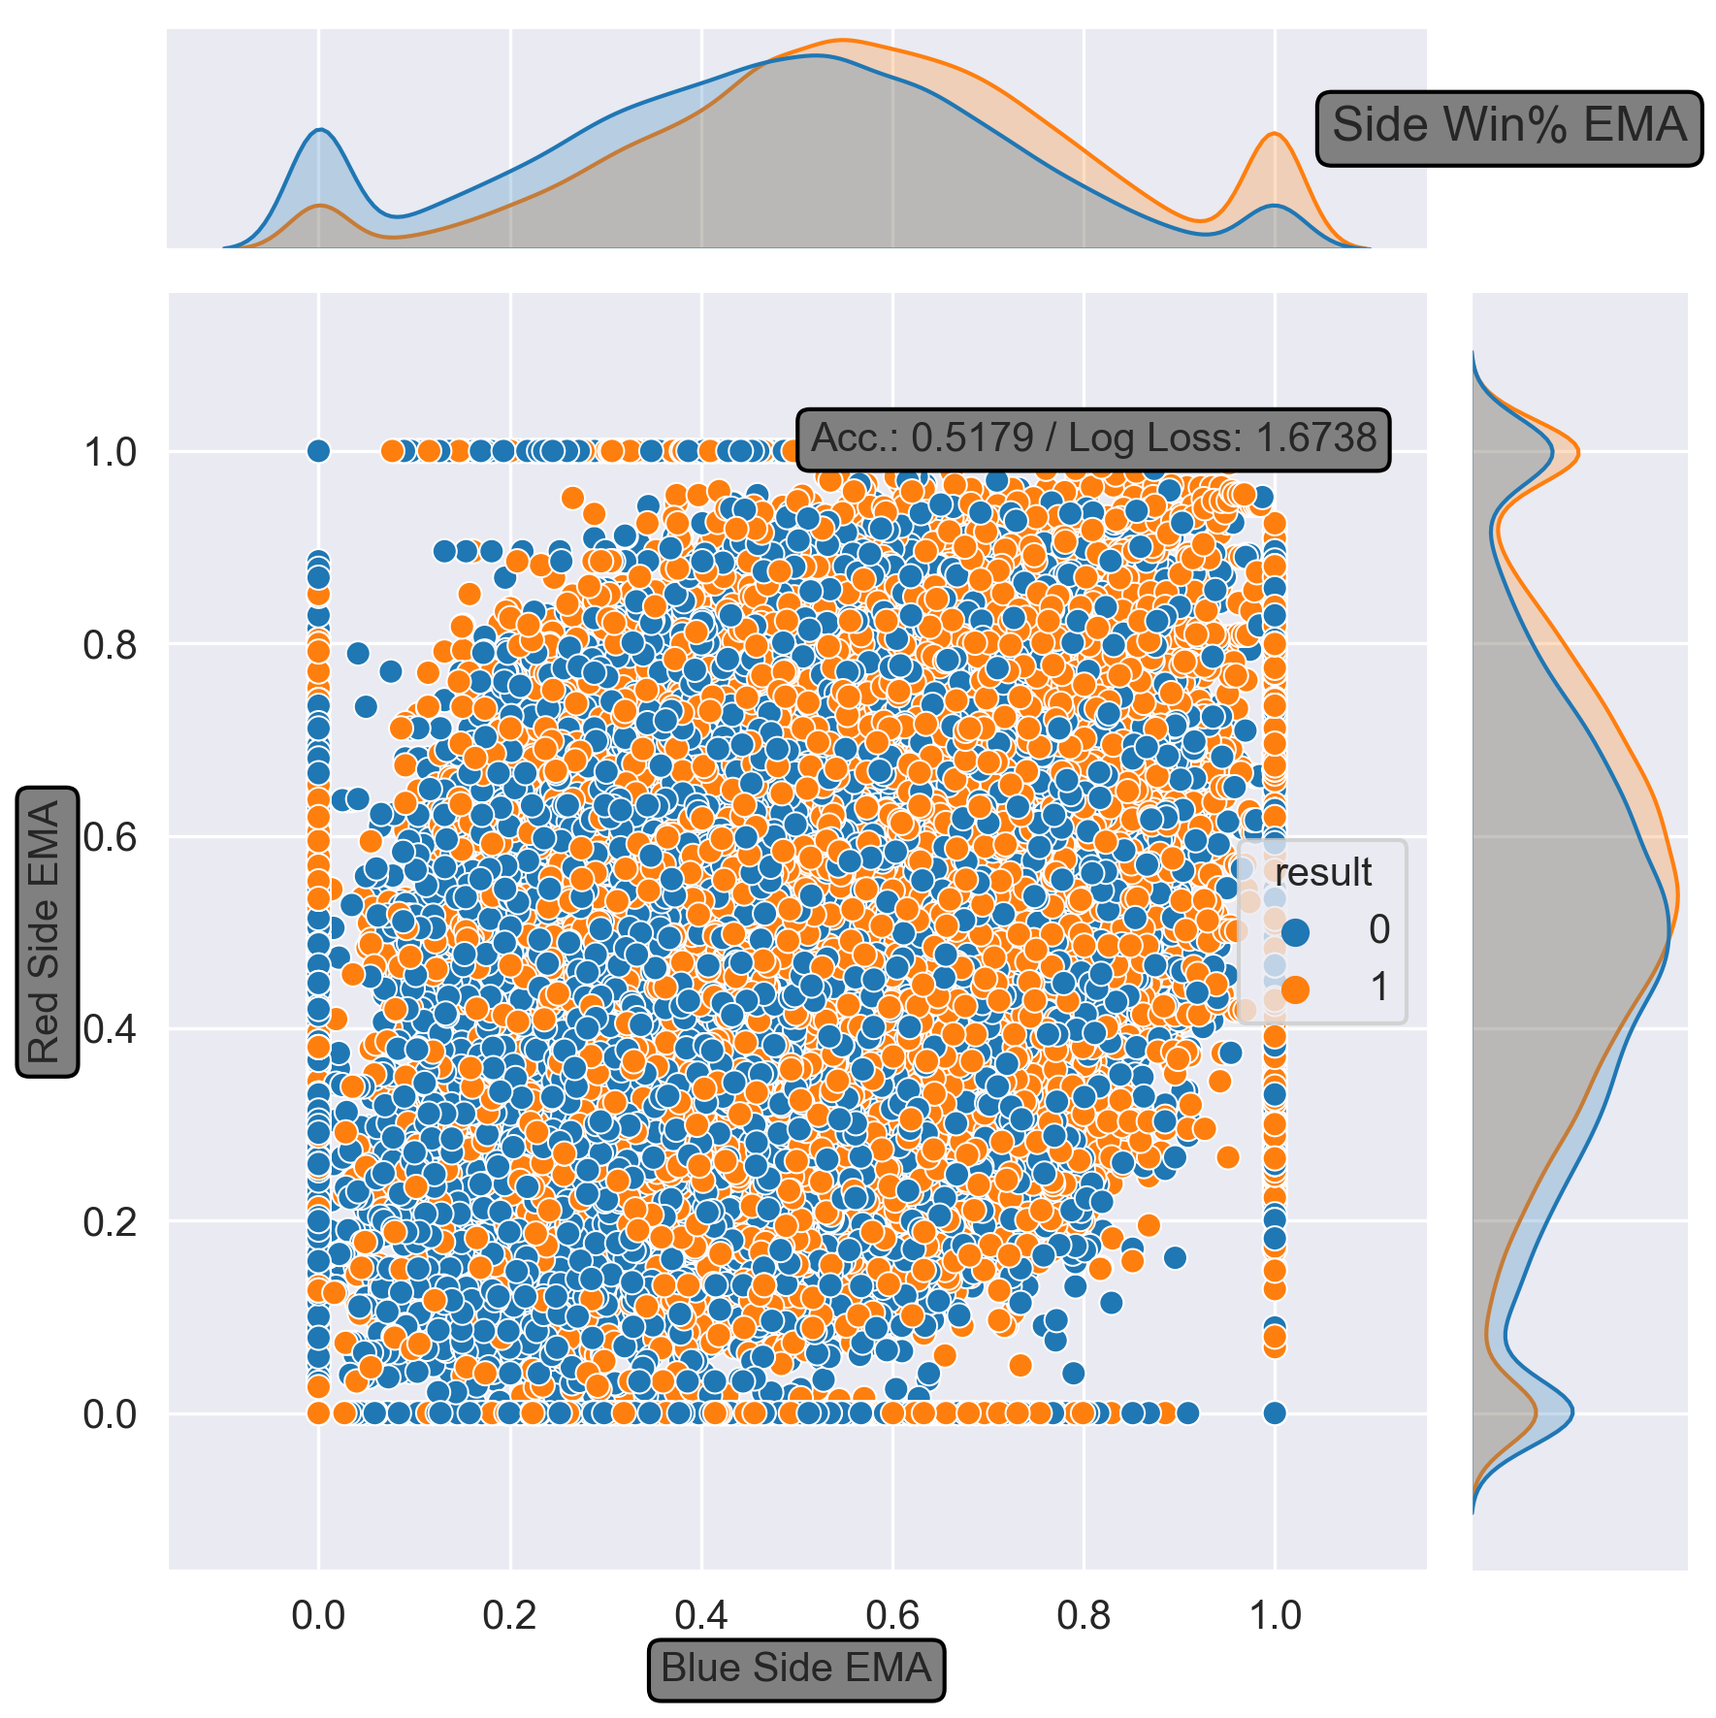
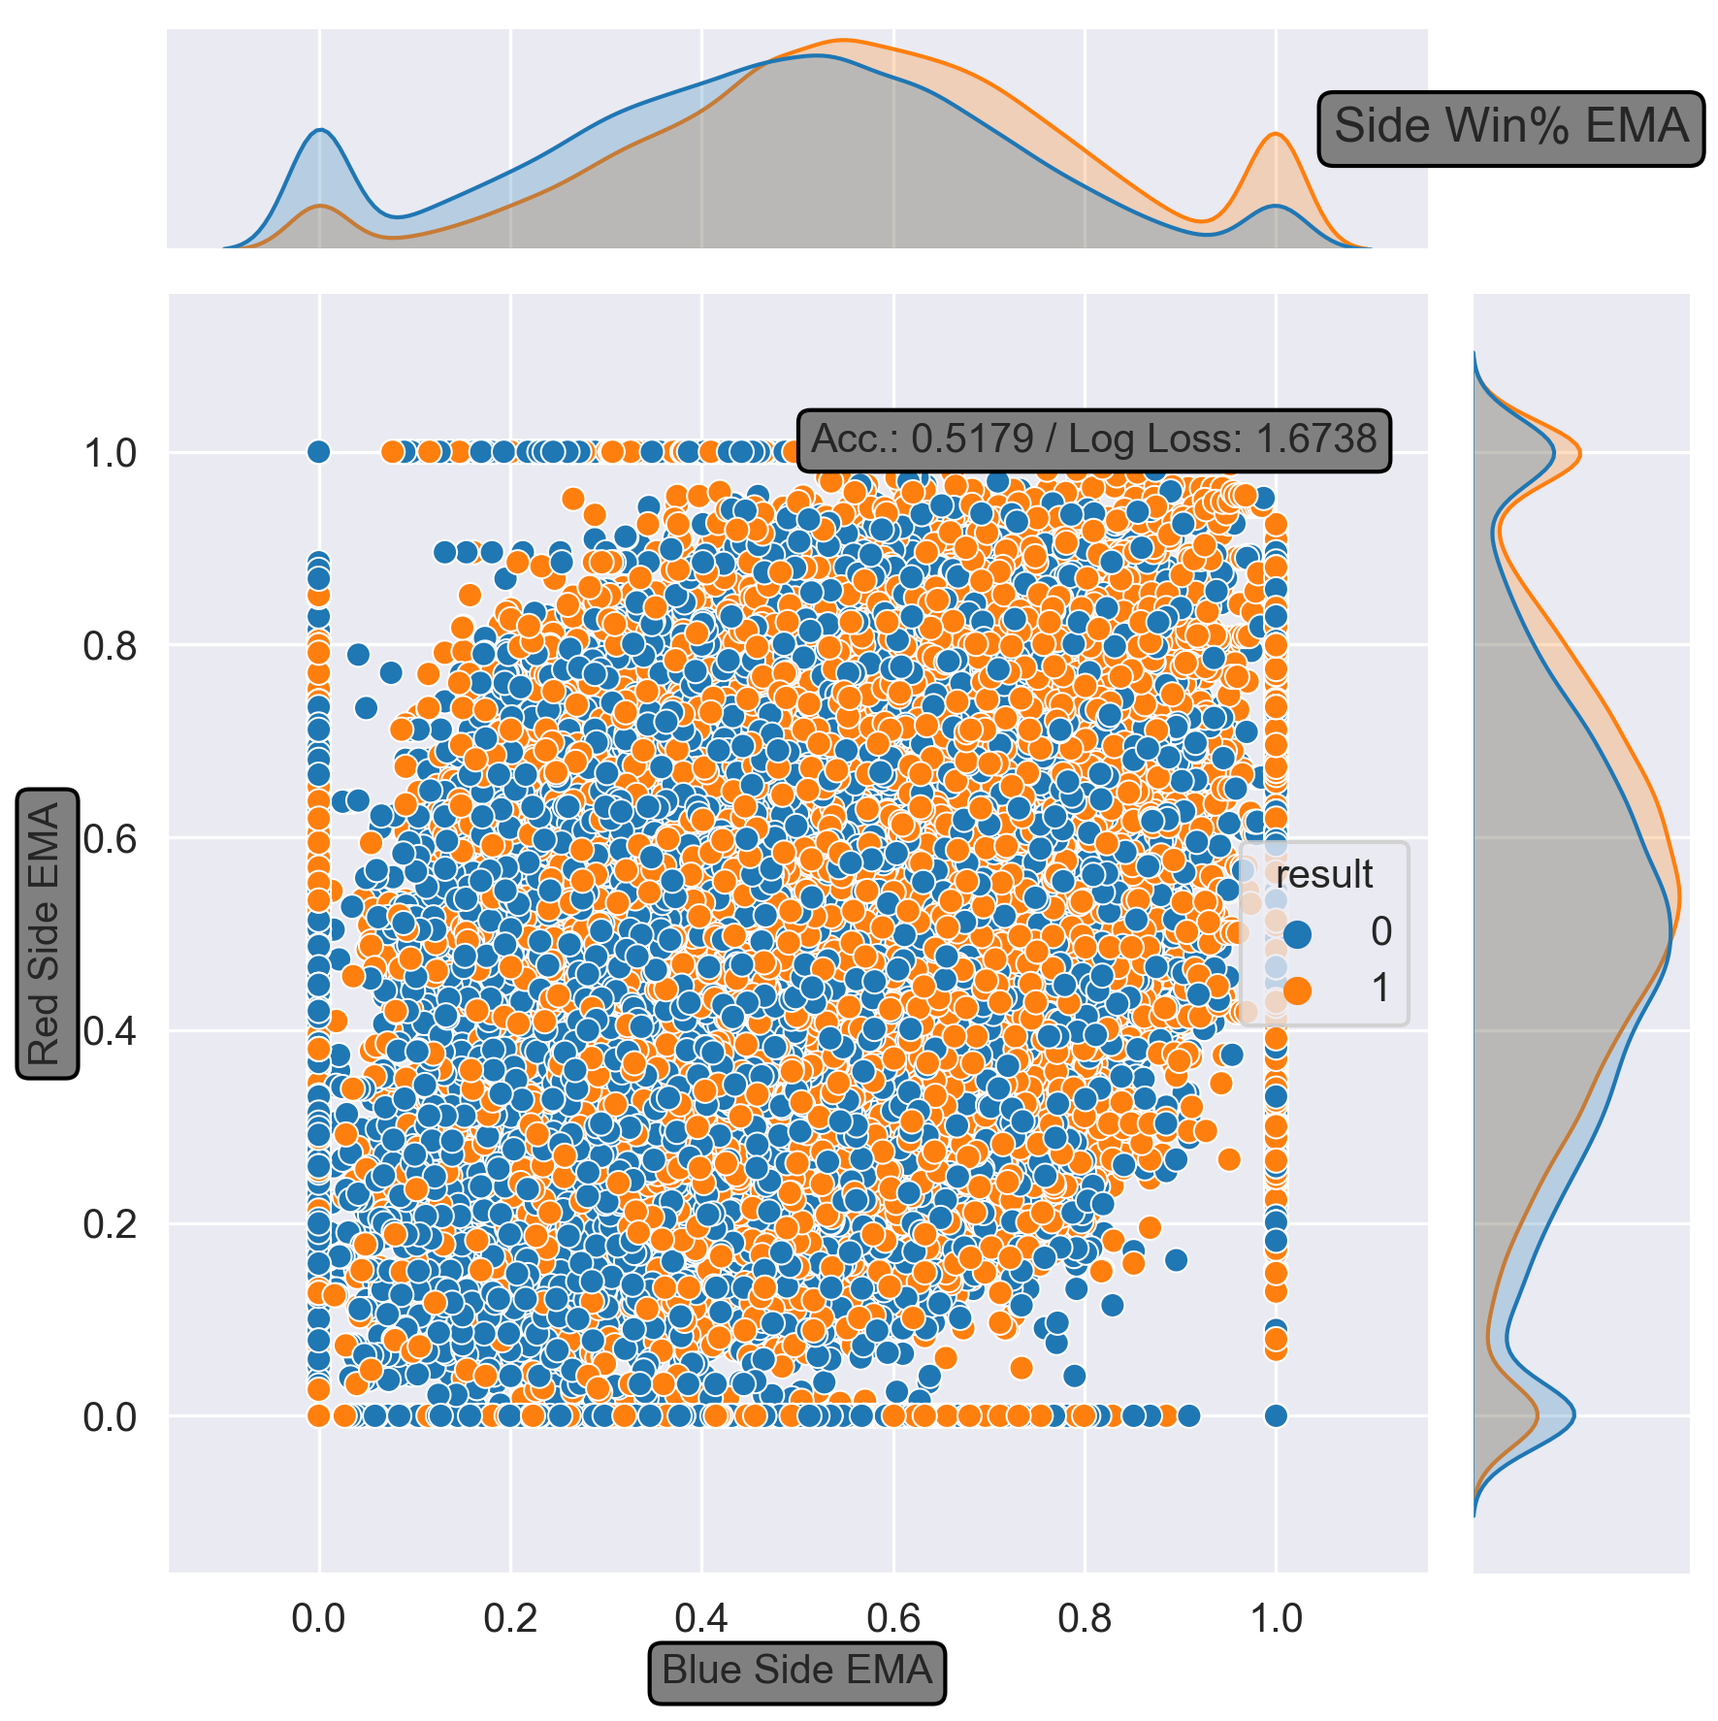
Slight model tweaks
Minor improvements following experimentation to make model outputs more accurate and consistent.

diff --git a/src/match_predictor.py b/src/match_predictor.py
@@ -10,6 +10,7 @@ Tim provides an invaluable service to the League community.
 # Housekeeping
 import itertools
 import math
+import numpy as np
 import pandas as pd
 from scipy.stats import norm
 from src.team import Team
@@ -25,10 +26,10 @@ def predict_match(blue: Team, red: Team) -> pd.DataFrame:
         return blue_win_perc
 
     def trueskill_prediction(blue_team_mu: float, blue_team_sigma: list,
-                             red_team_mu: float, red_team_sigma: list) -> float:
+                             red_team_mu: float, red_team_sigma: list, sigma_value: float) -> float:
         delta_mu = (blue_team_mu - red_team_mu)
         sum_sig = sum(r ** 2 for r in itertools.chain(blue_team_sigma, red_team_sigma))
-        denominator = math.sqrt(10 * (4.1666666667 ** 2) + sum_sig)
+        denominator = math.sqrt(10 * ((sigma_value / 2) ** 2) + sum_sig)
         blue_win_perc = norm.cdf(delta_mu / denominator)
         return blue_win_perc
 
@@ -38,23 +39,16 @@ def predict_match(blue: Team, red: Team) -> pd.DataFrame:
 
     weights = generate_validation_metrics(graph=False)
 
-    def scale_egpm(win_perc: float) -> float:
-        min_tune = 0.125
-        max_tune = 0.875
-        team_min = 0.261964
-        team_max = 0.695982
-        base_std = (win_perc - team_min) / (team_max - team_min)
-        scaled_win_perc = base_std * (max_tune - min_tune) + min_tune
-        return scaled_win_perc
-
     match = pd.DataFrame({"blue": [blue.name],
                           "red": [red.name],
                           "player_elo": [elo_prediction(blue.player_elo, red.player_elo)],
                           "player_trueskill": [trueskill_prediction(blue.player_trueskill_mu,
                                                                     blue.player_trueskill_sigma,
                                                                     red.player_trueskill_mu,
-                                                                    red.player_trueskill_sigma)],
-                          "egpm_dom": [scale_egpm(standard_prediction(blue.egpm_dominance, red.egpm_dominance))],
+                                                                    red.player_trueskill_sigma,
+                                                                    sigma_value=2.75)],
+                          "team_egpm_dom": [standard_prediction(blue.team_egpm_dom, red.team_egpm_dom)],
+                          "player_egpm_dom": [standard_prediction(blue.player_egpm_dom, red.player_egpm_dom)],
                           "side_win": [standard_prediction(blue.side_win_rate, red.side_win_rate)]})
 
     if blue.team_exists and red.team_exists:
@@ -65,18 +59,19 @@ def predict_match(blue: Team, red: Team) -> pd.DataFrame:
         match["blue_win_chance"] = ((match["team_elo"] * (weights["team_accuracy"]/sum_accuracy)) +
                                     (match["player_elo"] * (weights["player_accuracy"]/sum_accuracy)) +
                                     (match["player_trueskill"] * (weights["trueskill_accuracy"] / sum_accuracy)) +
-                                    (match["egpm_dom"] * (weights["egpm_dom_accuracy"]/sum_accuracy)) +
+                                    (match["team_egpm_dom"] * (weights["egpm_dom_accuracy"]/sum_accuracy)) +
                                     (match["side_win"] * (weights["side_ema_accuracy"]/sum_accuracy)))
 
-        match["deviation"] = match[["team_elo", "player_elo", "player_trueskill", "egpm_dom", "side_win"]].std(axis=1)
+        match["deviation"] = match[["team_elo", "player_elo", "player_trueskill", "team_egpm_dom", "side_win"]].std(axis=1)
+        match.drop(['player_egpm_dom'], axis=1, inplace=True)
     else:
         sum_accuracy = (weights["player_accuracy"] + weights["trueskill_accuracy"] +
                         weights["egpm_dom_accuracy"] + weights["side_ema_accuracy"])
         match["blue_win_chance"] = ((match["player_elo"] * (weights["player_accuracy"]/sum_accuracy)) +
                                     (match["player_trueskill"] * (weights["trueskill_accuracy"]/sum_accuracy)) +
-                                    (match["egpm_dom"] * (weights["egpm_dom_accuracy"]/sum_accuracy)) +
+                                    (match["player_egpm_dom"] * (weights["egpm_dom_accuracy"]/sum_accuracy)) +
                                     (match["side_win"] * (weights["side_ema_accuracy"]/sum_accuracy)))
-        match["deviation"] = match[["player_elo", "player_trueskill", "egpm_dom", "side_win"]].std(axis=1)
+        match["deviation"] = match[["player_elo", "player_trueskill", "player_egpm_dom", "side_win"]].std(axis=1)
 
     return match
 
@@ -203,8 +198,9 @@ Overall Likelihood Of {t2name} To Win Series: {t2likelihood:.2f}%
     return output
 
 
-def predict_draft(blue_team: str, blue1: str, blue2: str, blue3: str, blue4: str, blue5: str,
-                  red_team: str, red1: str, red2: str, red3: str, red4: str, red5: str):
+def predict(blue_team: str, blue1: str, blue2: str, blue3: str, blue4: str, blue5: str,
+            red_team: str, red1: str, red2: str, red3: str, red4: str, red5: str,
+            verbose: bool):
 
     output = pd.DataFrame()
 
@@ -213,11 +209,10 @@ def predict_draft(blue_team: str, blue1: str, blue2: str, blue3: str, blue4: str
 
     match = predict_match(blue, red)
     output = pd.concat([output, match], ignore_index=True)
-    print(blue)
-    print(red)
-    print(match)
 
-    #output = output[["blue", "red", "blue_win_chance", "deviation"]]
+    if not verbose:
+        output = output[["blue", "red", "blue_win_chance", "deviation"]]
+
     output = "```ProjektZero Model Predictions: \n \n" \
              f"{output.copy().to_markdown()}"
 
@@ -267,10 +262,10 @@ def mock_draft(blue1: str, blue2: str, blue3: str, blue4: str, blue5: str,
 
 
 if __name__ in ('__main__', '__builtin__', 'builtins'):
-    blue_team = Team("Team BDS", "Blue", "Adam", "Cinkrof", "NUCLEARINT", "xMatty", "Limit")
-    red_team = Team("Rogue", "Red", "Odoamne", "Malrang", "Larssen", "Comp", "Trymbi")
+    blue_team = Team("Evil Geniuses", "Impact", "Inspired", "jojopyun", "Danny", "Vulcan")
+    print(blue_team.team_egpm_dom)
+    red_team = Team("Golden Guardians", "Tony Top", "Iconic", "ry0ma", "Stixxay", "Chime")
+    print(red_team.team_egpm_dom)
 
-    print(predict_draft("Team BDS", "Adam", "Cinkrof", "NUCLEARINT", "xMatty", "LIMIT",
-                        "Rogue", "Odoamne", "Malrang", "Larssen", "Comp", "Trymbi"))
-    print(predict_draft("Rogue", "Odoamne", "Malrang", "Larssen", "Comp", "Trymbi",
-                        "Team BDS", "Adam", "Cinkrof", "NUCLEARINT", "xMatty", "LIMIT"))
+    print(predict("Evil Geniuses", "Impact", "Inspired", "jojopyun", "Danny", "Vulcan",
+                  "Golden Guardians", "Tony Top", "Iconic", "ry0ma", "Stixxay", "Chime", True))

diff --git a/src/lol_modeling.py b/src/lol_modeling.py
@@ -245,6 +245,7 @@ def player_elo(df: pd.DataFrame, start: int = 1200, k: int = 28) -> pd.DataFrame
 
     return df
 
+
 def aggregate_player_elos(player_data: pd.DataFrame, team_data: pd.DataFrame) -> pd.DataFrame:
     """
     Aggregate individual player elos to a mean elo per team per match.
@@ -278,8 +279,8 @@ def aggregate_player_elos(player_data: pd.DataFrame, team_data: pd.DataFrame) ->
     return team_data
 
 
-def trueskill_model(player_data: pd.DataFrame, team_data: pd.DataFrame) -> Tuple[
-    Optional[DataFrame], Optional[DataFrame], Dict[Any, Any]]:
+def trueskill_model(player_data: pd.DataFrame, team_data: pd.DataFrame,
+                    initial_sigma: float = 8.33) -> Tuple[Optional[DataFrame], Optional[DataFrame], Dict[Any, Any]]:
     r"""
     Calculate team ranking using Microsoft's TrueSkill 1 algorithm.
     Reference: https://www.microsoft.com/en-us/research/project/trueskill-ranking-system/
@@ -317,7 +318,7 @@ def trueskill_model(player_data: pd.DataFrame, team_data: pd.DataFrame) -> Tuple
     ts = trueskill.TrueSkill(draw_probability=0.0)
     player_ratings_dict = dict()
     for i in input_data['playerid'].unique():
-        player_ratings_dict[i] = ts.create_rating()
+        player_ratings_dict[i] = ts.create_rating(sigma=initial_sigma)
 
     def setup_match(df: pd.DataFrame) -> np.array:
         # Prepare DataFrame
@@ -367,11 +368,11 @@ def trueskill_model(player_data: pd.DataFrame, team_data: pd.DataFrame) -> Tuple
         return output_array
 
     col_names = ['gameid', 'date', 'league', 'ckpm', 'blue_earned_gpm',
-                'blue_kpm', 'blue_team', 'blue_team_id', 'blue_top_name', 'blue_jng_name',
-                'blue_mid_name', 'blue_bot_name', 'blue_sup_name',
-                'blue_team_result', 'red_team', 'red_team_id', 'red_earned_gpm', 'red_kpm',
-                'red_top_name', 'red_jng_name', 'red_mid_name',
-                'red_bot_name', 'red_sup_name']
+                 'blue_kpm', 'blue_team', 'blue_team_id', 'blue_top_name', 'blue_jng_name',
+                 'blue_mid_name', 'blue_bot_name', 'blue_sup_name',
+                 'blue_team_result', 'red_team', 'red_team_id', 'red_earned_gpm', 'red_kpm',
+                 'red_top_name', 'red_jng_name', 'red_mid_name',
+                 'red_bot_name', 'red_sup_name']
 
     lcs_rating = pd.DataFrame(setup_match(input_data), columns=col_names)
 
@@ -705,31 +706,24 @@ def egpm_model(data: pd.DataFrame, entity: str) -> pd.DataFrame:
                                          opp_elo))
     data['egpm_dominance_ema_before'] = (data.groupby([identity])
                                          ['egpm_dominance_ratio']
-                                         .transform(lambda x: x.ewm(halflife=9, ignore_na=True)
+                                         .transform(lambda x: x.ewm(halflife=5, ignore_na=True)
                                                     .mean().shift().bfill()))
     data['egpm_dominance_ema_after'] = (data.groupby([identity])
                                         ['egpm_dominance_ratio']
-                                        .transform(lambda x: x.ewm(halflife=9, ignore_na=True).mean()))
+                                        .transform(lambda x: x.ewm(halflife=5, ignore_na=True).mean()))
     data['opp_egpm_dominance_ema_before'] = (data.groupby([identity])
                                              ['opp_egpm_dominance_ratio']
-                                             .transform(lambda x: x.ewm(halflife=9, ignore_na=True)
+                                             .transform(lambda x: x.ewm(halflife=5, ignore_na=True)
                                                         .mean().shift().bfill()))
     data['opp_egpm_dominance_ema_after'] = (data.groupby([identity])
                                             ['opp_egpm_dominance_ratio']
-                                            .transform(lambda x: x.ewm(halflife=9, ignore_na=True).mean()))
+                                            .transform(lambda x: x.ewm(halflife=5, ignore_na=True).mean()))
 
     data['egpm_dominance_win_perc'] = (data['egpm_dominance_ema_before'] /
                                        (data['egpm_dominance_ema_before'] +
                                         data['opp_egpm_dominance_ema_before']))
     data['egpm_dominance_win_perc'] = data['egpm_dominance_win_perc'].fillna(0.5)
     data['egpm_dominance_diff'] = data['egpm_dominance_ema_before'] - data['opp_egpm_dominance_ema_before']
-
-    # Scale Win Perc (derived from sklearn MinMaxScaler)
-    min_tune = 0.125
-    max_tune = 0.875
-    base = data['egpm_dominance_win_perc']
-    base_std = (base - base.min(axis=0)) / (base.max(axis=0) - base.min(axis=0))
-    data['scaled_egpm_win_perc'] = base_std * (max_tune - min_tune) + min_tune
 
     return data
 

diff --git a/src/model_validator.py b/src/model_validator.py
@@ -218,12 +218,12 @@ def validate_egpm_dominance(teams: pd.DataFrame, directory: Path, graph: bool):
         Variable describing the log loss, as defined by sklearn.metrics, of the model.
     """
     # Data Preparation
-    teams['egpm_dominance_expected_result'] = np.where(teams['scaled_egpm_win_perc'] >= 0.5, 1, 0)
+    teams['egpm_dominance_expected_result'] = np.where(teams['egpm_dominance_win_perc'] >= 0.5, 1, 0)
     teams['result'] = teams.result.astype('int32')
 
     # Label Accuracy and Log Loss
     correct = len(teams[teams['egpm_dominance_expected_result'] == teams['result']]) / len(teams)
-    logloss = log_loss(teams['result'], teams['scaled_egpm_win_perc'], labels=[0, 1])
+    logloss = log_loss(teams['result'], teams['egpm_dominance_win_perc'], labels=[0, 1])
 
     # Generate Graph
     if graph:
@@ -353,7 +353,7 @@ def validate_ensemble_accuracy(teams: pd.DataFrame,
     teams['ensemble_win_perc'] = ((teams['team_elo_win_perc'] * (team_accuracy / sum_accuracy)) +
                                   (teams['player_elo_win_perc'] * (player_accuracy / sum_accuracy)) +
                                   (teams['trueskill_win_perc'] * (trueskill_accuracy / sum_accuracy)) +
-                                  (teams['scaled_egpm_win_perc'] * (egpm_dom_accuracy / sum_accuracy)) +
+                                  (teams['egpm_dominance_win_perc'] * (egpm_dom_accuracy / sum_accuracy)) +
                                   (teams['side_ema_win_perc'] * (side_ema_accuracy / sum_accuracy)))
     teams['opp_ensemble_win_perc'] = 1 - teams['ensemble_win_perc']
     teams['ensemble_expected_result'] = np.where(teams['ensemble_win_perc'] >= 0.5, 1, 0)

diff --git a/src/predictor_bot.py b/src/predictor_bot.py
@@ -89,14 +89,30 @@ async def profile(ctx, entity):
     await ctx.send(content=output)
 
 
-@bot.command(name='predict_draft')
-async def predict_draft(ctx, blue_team, blue1, blue2, blue3, blue4, blue5, red_team, red1, red2, red3, red4, red5):
+@bot.command(name='predict')
+async def predict(ctx, blue_team, blue1, blue2, blue3, blue4, blue5, red_team, red1, red2, red3, red4, red5):
     prelim = "```Calculating...```"
     message = await ctx.send(content=prelim)
 
     try:
-        output = mp.predict_draft(blue_team, blue1, blue2, blue3, blue4, blue5,
-                                  red_team, red1, red2, red3, red4, red5)
+        output = mp.predict(blue_team, blue1, blue2, blue3, blue4, blue5,
+                            red_team, red1, red2, red3, red4, red5, False)
+    except Exception as e:
+        output = f"Something went wrong, sorry about that. \n" \
+                 "If this is still breaking, ping ProjektZero for support. \n" \
+                 "Error: \n" \
+                 f"```{e}```"
+    await message.edit(content=output)
+
+
+@bot.command(name='predict_verbose')
+async def predict_verbose(ctx, blue_team, blue1, blue2, blue3, blue4, blue5, red_team, red1, red2, red3, red4, red5):
+    prelim = "```Calculating...```"
+    message = await ctx.send(content=prelim)
+
+    try:
+        output = mp.predict(blue_team, blue1, blue2, blue3, blue4, blue5,
+                            red_team, red1, red2, red3, red4, red5, True)
     except Exception as e:
         output = f"Something went wrong, sorry about that. \n" \
                  "If this is still breaking, ping ProjektZero for support. \n" \

diff --git a/src/team.py b/src/team.py
@@ -57,6 +57,7 @@ class Team:
             roster = self._get_last_roster(player_data)
             self.team_exists = True
             self.team_elo = team_data.team_elo.mean()
+            self.team_egpm_dom = team_data.egpm_dominance_ema_after.mean()
         elif lower_name in ["first 5", "second 5"]:
             pass
         else:
@@ -94,7 +95,7 @@ class Team:
         self.player_elo = data.player_elo.mean()
         self.player_trueskill_mu = data.trueskill_mu.sum()
         self.player_trueskill_sigma = data.trueskill_sigma.to_list()
-        self.egpm_dominance = data.egpm_dominance_ema_after.sum()
+        self.player_egpm_dom = data.egpm_dominance_ema_after.sum()
         self.side_win_rate = data.blue_side_ema_after.mean() if self.side.lower() == "blue" \
             else data.red_side_ema_after.mean()
 

diff --git a/src/data_generator.py b/src/data_generator.py
@@ -53,7 +53,7 @@ def enrich_dataset(player_data: pd.DataFrame,
     team_data = lol.aggregate_player_elos(player_data, team_data)
 
     # Enrich Team TrueSkill
-    player_data, team_data, ts_lookup = lol.trueskill_model(player_data, team_data)
+    player_data, team_data, ts_lookup = lol.trueskill_model(player_data, team_data, initial_sigma=2.75)
 
     # EGPM Model - TrueSkill Normalized Earned Gold
     team_data = lol.egpm_model(team_data, "team")
